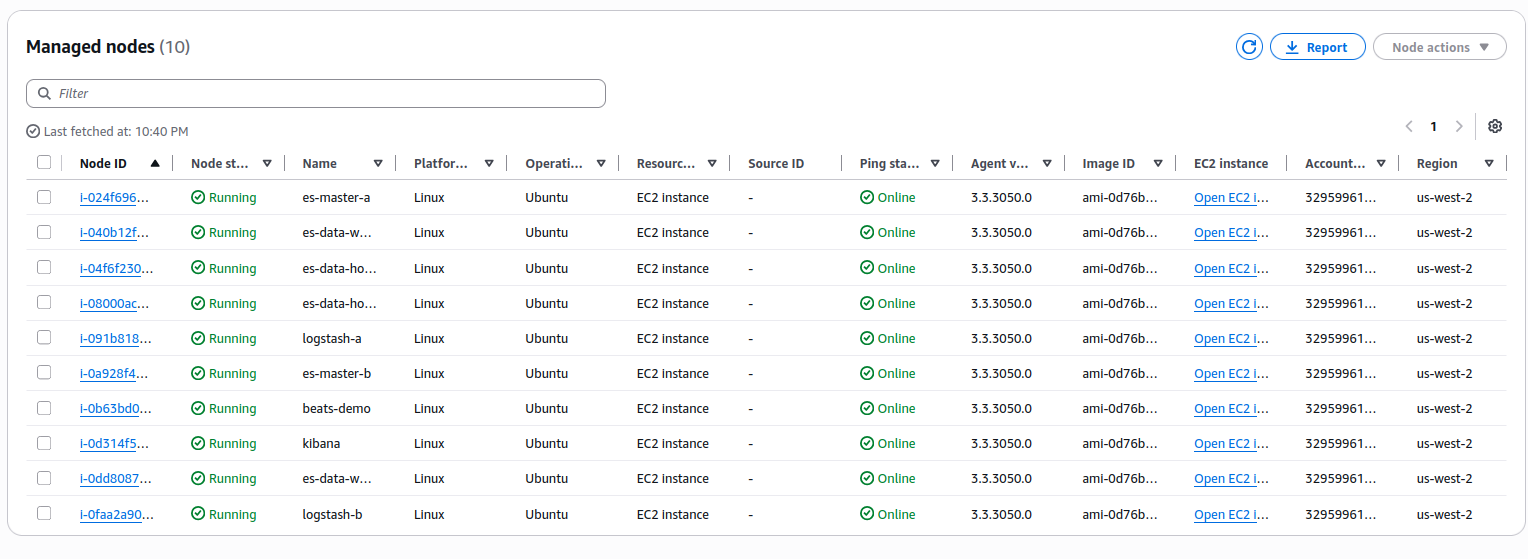
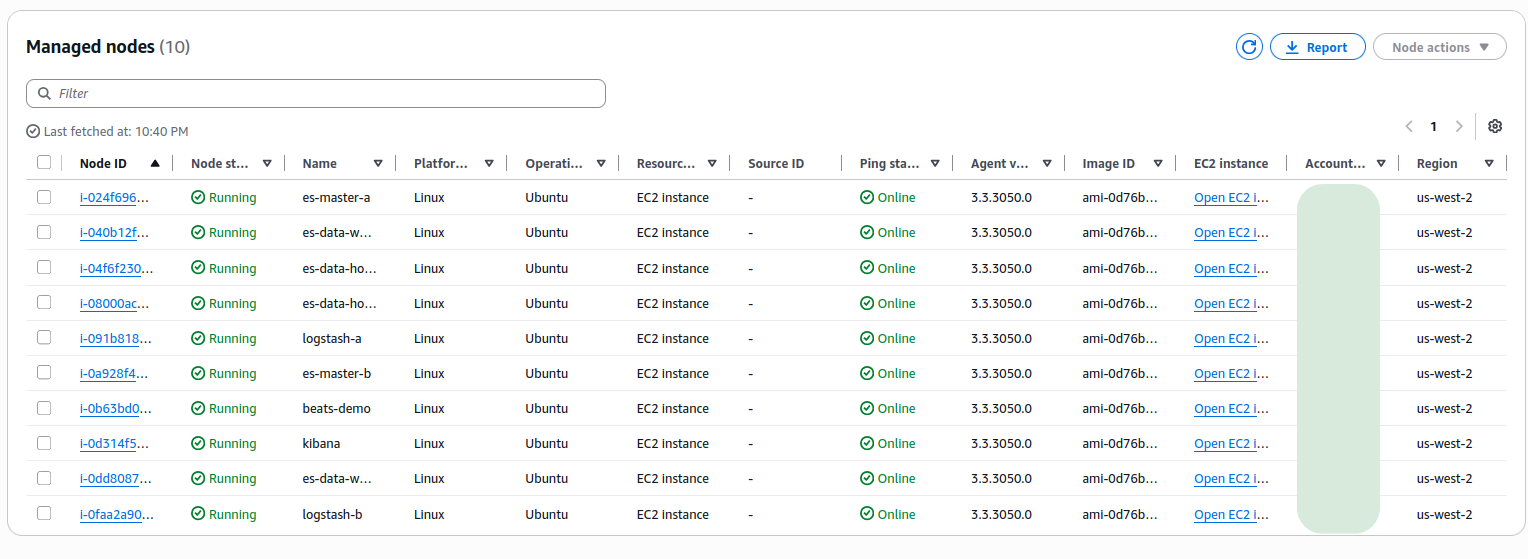
readme update

Changed region(s): [[0.8305, 0.3041, 0.9228, 0.9732]]

diff --git a/README.md b/README.md
@@ -51,7 +51,9 @@ Kibana is not in the ingest path; it reads from Elasticsearch.
 
 ## Screenshots (examples)
 
-![Managed Nodes](images/managed_nodes.png)
+SSM managed nodes (shows the fleet is reachable via Session Manager):
+
+![SSM Managed Nodes](images/managed_nodes.png)
 
 ![Example Logs](images/example_siem_logs_good.png)
 
